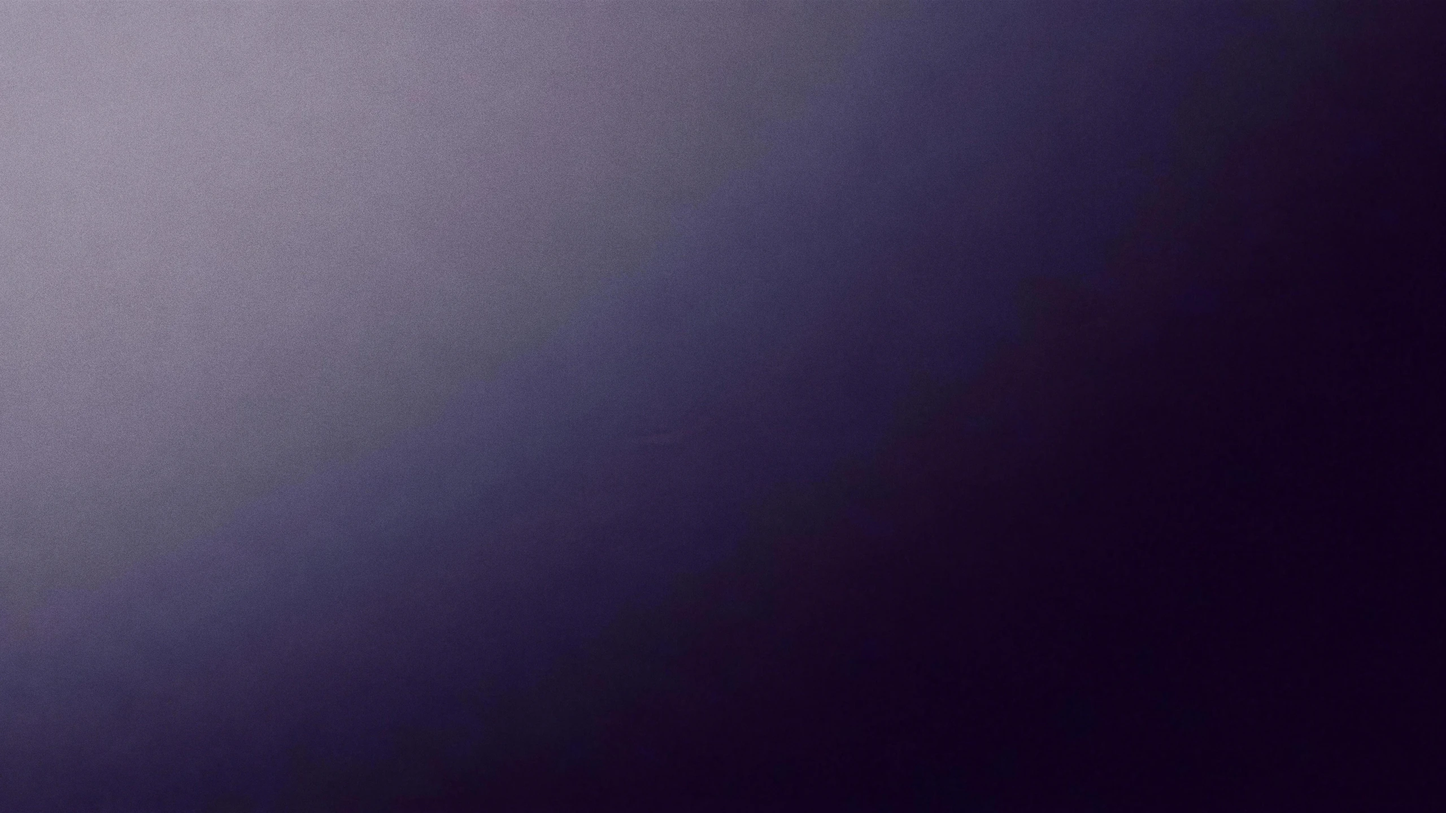
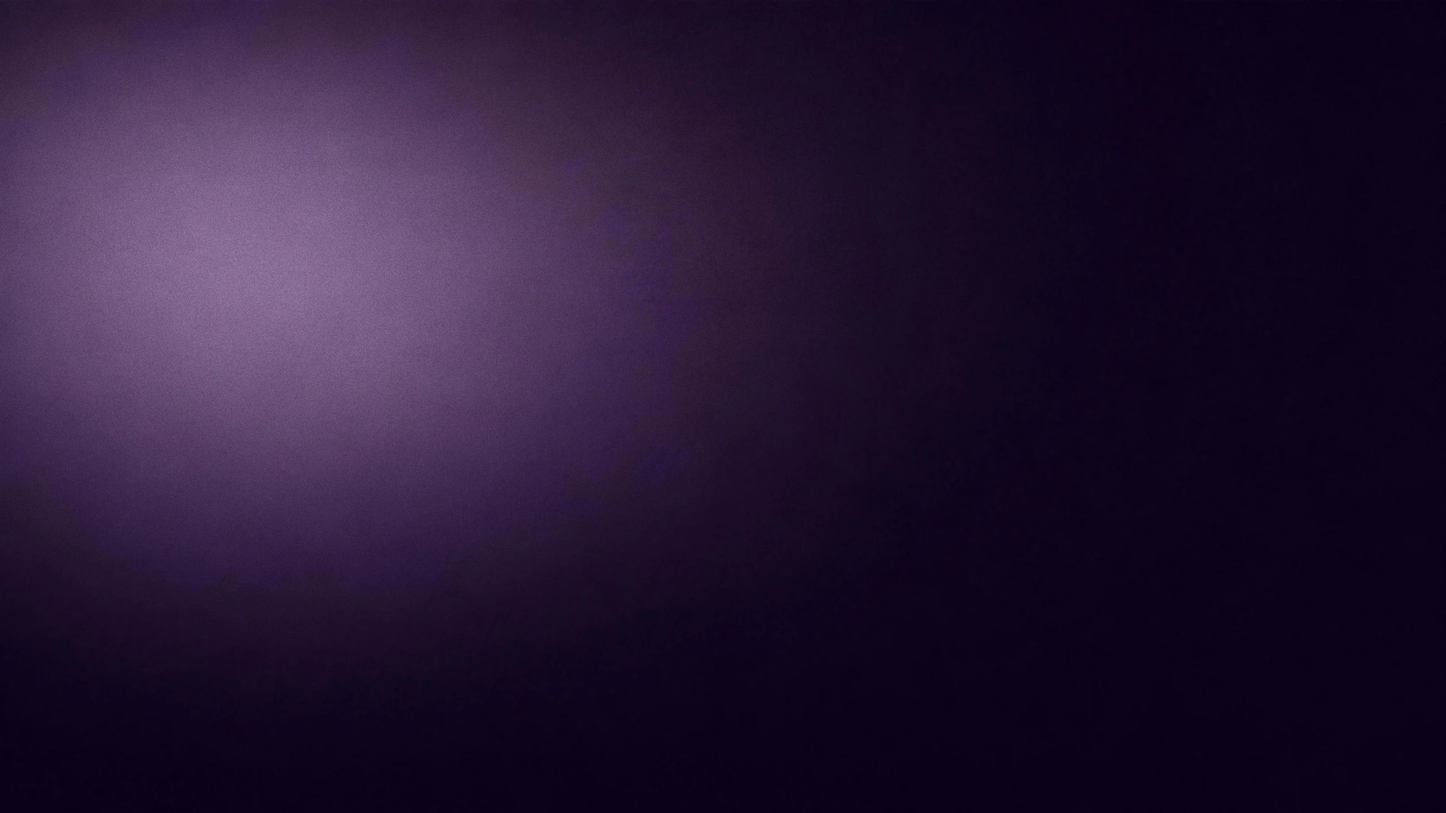
Hero background: focus experiment, light pool behind the headline
Founder asked for an experiment on the background with improved
focus. Four candidates (two with a single pool of light on the left,
two with a light band) were rendered in the same analog language and
compared in the layout. The pool variant wins: one broad, soft lilac
pool sits behind the headline, the right half stays calm and dark.
Shade overlay loosened (left 14 percent, top 30 percent), image filter
at full brightness, object-position moved left. 4K upscale with fine
grain, OG image re-rendered on the new background, docs updated.

Claude-Session: https://claude.ai/code/session_01WNik2r3KY3SBBWXV1w1yzj

diff --git a/hw-site/DESIGN.md b/hw-site/DESIGN.md
@@ -153,9 +153,9 @@ Alle Kontrastwerte wurden am 2026-09-17 mit einem kleinen Node-Skript nach WCAG 
 - Horizontale Achse (`--axis`, 2 px) mit interpolierten Punkten; auf `--ink`. Labels `--fg-on-ink-muted`. Optional Three.js-Szene als Progressive Enhancement (siehe 9), die Chain bleibt ohne JS vollständig lesbar.
 
 ### Hero
-- Statisch (seit 2026-09-18, Gründer: kein Hintergrund-Scroll): Vollhöhe (`100svh`, Raster `1fr auto`), Bild als Fläche hinter Copy und Nachlauf, `object-fit: cover`, `object-position: 38% 40%`, leicht gedämpft (`saturate(.9) brightness(.92)`). Kein Pan, keine Skalierung, keine Fortschrittslinie, kein Farbwash.
-- Bild (`src/assets/hero.webp`, 2560 × 1440, generiert mit Higgsfield, Modell GPT Image 2.5 in hoher Qualität, 4K-Upscale, Referenz: Gründer-Video vom 2026-09-18): ein abstrakter, analog wirkender Lichtverlauf mit feinem Filmkorn. Mattes, entsättigtes Flieder liegt links oben hinter der Copy und läuft in einer breiten Diagonale in `--ink` nach rechts und unten aus. Keine Objekte, keine Linien, kein Bokeh, keine Leuchtflecken. Das Bild führt den Blick über Licht auf die Copy und bringt die Vignette selbst mit.
-- Schleier: nur noch drei leichte Verläufe – nach unten in `--ink` (100 % ab Unterkante, 60 % bei 18 %, 0 ab 42 %) für den nahtlosen Übergang zur Trust-Leiste, ein Lesbarkeits-Verlauf von links (28 % → 0 bei 55 %) und ein Hauch von oben (35 % → 0 bei 22 %). Keine radiale Vignette mehr, keine Leuchtflecken, kein Glow.
+- Statisch (seit 2026-09-18, Gründer: kein Hintergrund-Scroll): Vollhöhe (`100svh`, Raster `1fr auto`), Bild als Fläche hinter Copy und Nachlauf, `object-fit: cover`, `object-position: 30% 42%`, kaum gedämpft (`saturate(.92) brightness(1)`). Kein Pan, keine Skalierung, keine Fortschrittslinie, kein Farbwash.
+- Bild (`src/assets/hero.webp`, 2560 × 1440, generiert mit Higgsfield, Modell GPT Image 2.5 in hoher Qualität, 4K-Upscale, Referenz: Gründer-Video vom 2026-09-18): ein abstrakter, analog wirkender Lichtverlauf mit feinem Filmkorn. Seit dem Fokus-Experiment (2026-09-18, Gründer: „Experiment mit Background und improved focus“) ein einzelner, breiter Lichtpool in mattem Flieder im linken Drittel, leicht über der Mitte, genau hinter der Headline; von dort fällt das Licht weich in alle Richtungen in `--ink` ab, die rechte Hälfte bleibt ruhig und dunkel, Unterkante und obere Ecken dunkel. Keine Objekte, keine Linien, kein Bokeh, keine Leuchtflecken. Das Bild führt den Blick über Licht auf die Copy und bringt die Vignette selbst mit.
+- Schleier: nur noch drei leichte Verläufe – nach unten in `--ink` (100 % ab Unterkante, 55 % bei 16 %, 0 ab 40 %) für den nahtlosen Übergang zur Trust-Leiste, ein Hauch von links (14 % → 0 bei 40 %) und ein Hauch von oben (30 % → 0 bei 20 %). Keine radiale Vignette mehr, keine Leuchtflecken, kein Glow.
 - Copy: vertikal in der Bildfläche zentriert, bündig mit der Container-Kante, `max-width: 760px` je Kind. Eyebrow → `h1` (`--fg-on-ink`) → Claim → Beschreibung (`--fg-on-ink-muted`) → Buttons. Einblendung über `.reveal` mit gestaffeltem `--delay`.
 - Nachlauf (Slot `after`): Trust-Leiste mit den Partnern (einfarbige Masken, `--logo-h: 32px`) auf dem in `--ink` ausgelaufenen Bildrand; Elemente blenden über `--start` gestaffelt ein. Zertifikate stehen nicht im Hero, sondern in der Proof-Szene „Wer bei uns baut“ darunter.
 - Flache Viewports (≤ 700 px hoch): `padding-top` der Copy = Nav-Höhe + 24 px, `h1` `clamp(1.75rem, 3.8vw, 2.5rem)`, Beschreibung 0,9 rem, kompakte Buttons – die Copy darf nie beschnitten werden.
@@ -214,6 +214,7 @@ Alle Kontrastwerte wurden am 2026-09-17 mit einem kleinen Node-Skript nach WCAG 
 
 | Datum | Änderung |
 |---|---|
+| 2026-09-18 | Hero-Fokus-Experiment: neues Hintergrundbild mit einem Lichtpool links hinter der Headline (statt Verlauf von links oben), rechte Hälfte ruhig und dunkel; vier Kandidaten (zwei Pool, zwei Lichtband) im Layout verglichen. Filter auf `saturate(.92) brightness(1)`, Schleier von links auf 14 % und von oben auf 30 % reduziert, `object-position` 30 % 42 %. |
 | 2026-09-18 | Stepper größer und cleaner: Knoten 40 px, Labels unter den Knoten, Linie 1,5 px nur zwischen den Knoten (läuft nicht mehr durch Text), Pfeile an der Knotenzeile ausgerichtet. Proof-Szene: Zähler „8 Zertifikate im Gründerteam“ entfernt; Badges 52 px in einer Reihe, die rechts ausblendet (`mask-image`), daneben „Alle Nachweise“. Es soll sichtbar sein, dass die Reihe weitergeht. |
 | 2026-09-18 | Zehn-Schritte-Slider: Phasen-Pillen durch einen Stepper mit Linie und Knoten ersetzt (siehe Step). |
 | 2026-09-18 | Proof-Szene: Motiv Systemmodell (Grundplatte, fünf Module, eines wird gesetzt, Blaupause, Tuschestift) statt Maßschneiderei, Gründer: „cooles Wortspiel, passt aber nicht in den professionellen IT-Consulting-Auftritt“. Freisteller wie zuvor, Bildunterschrift „Für Ihren Betrieb geplant und gebaut.“ Verworfen: Architekturmodell mit Blaupause (liest sich als Immobilie). |

diff --git a/hw-site/.agents/product-marketing.md b/hw-site/.agents/product-marketing.md
@@ -433,6 +433,7 @@ Konkrete Szenarien dürfen genutzt werden, wenn sie als Beispiel gekennzeichnet 
 
 ## Changelog
 *Newest first. One line per revision: what changed and why.*
+- v46 (2026-09-18) — Hero-Hintergrund, Fokus-Experiment (Gründer: „die Richtung ist schon excellent“): Lichtpool links hinter der Headline, rechts ruhig und dunkel; Schleier gelockert, damit der Pool trägt. Vier Kandidaten verglichen, Pool-Variante gewählt.
 - v45 (2026-09-18) — Hero-Claim optimiert (Gründer: „bitte hier noch optimieren“): „Mit uns wird daraus ein Ablauf, der wirklich Wert schafft.“ Alternativen: „Wir machen daraus einen Ablauf, der wirklich Wert schafft.“, „Mit uns wird daraus endlich ein Ablauf, der Wert schafft.“
 - v44 (2026-09-18) — Hero-Claim im Gründer-Wortlaut: „Mit uns erreichen Sie endlich einen Ablauf, der wirklich Wert schafft.“ (Original mit Gedankenstrich, auf der Site als Komma); Beschreibung gekürzt: „Mit den richtigen Quellen, Regeln und Anbindungen. Wir begleiten Sie, bis es läuft, und Sie holen sich Ihre Souveränität zurück, ohne bei jedem Schritt auf Dienstleister angewiesen zu sein.“
 - v43 (2026-09-18) — Proof-Szene mit Systemmodell (Gründer: Maßschneiderei ist ein Wortspiel, passt nicht zu IT-Consulting): Grundplatte mit fünf Modulen, eines wird gesetzt, Blaupause und Tuschestift; Bildunterschrift „Für Ihren Betrieb geplant und gebaut.“ Verworfen: Architekturmodell (Immobilie).
